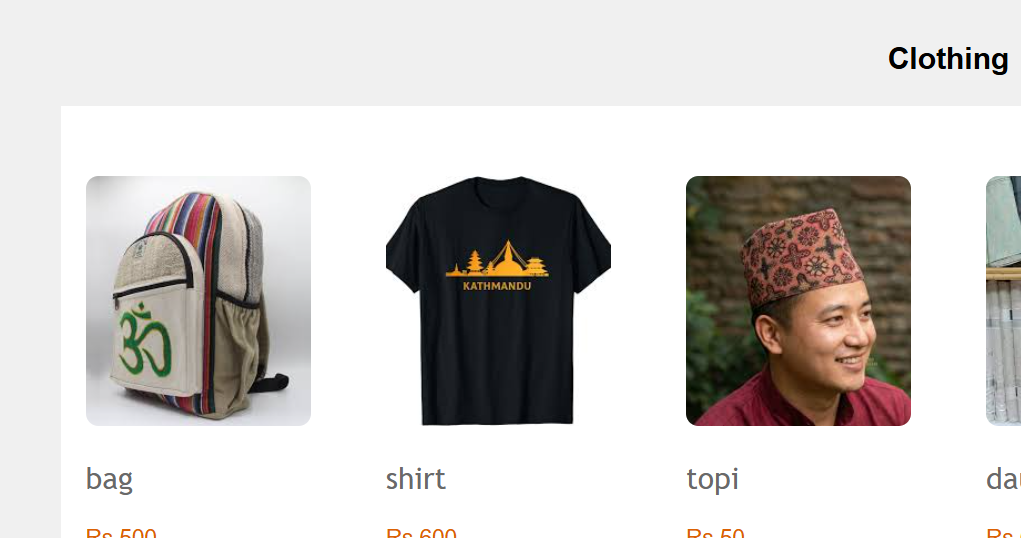
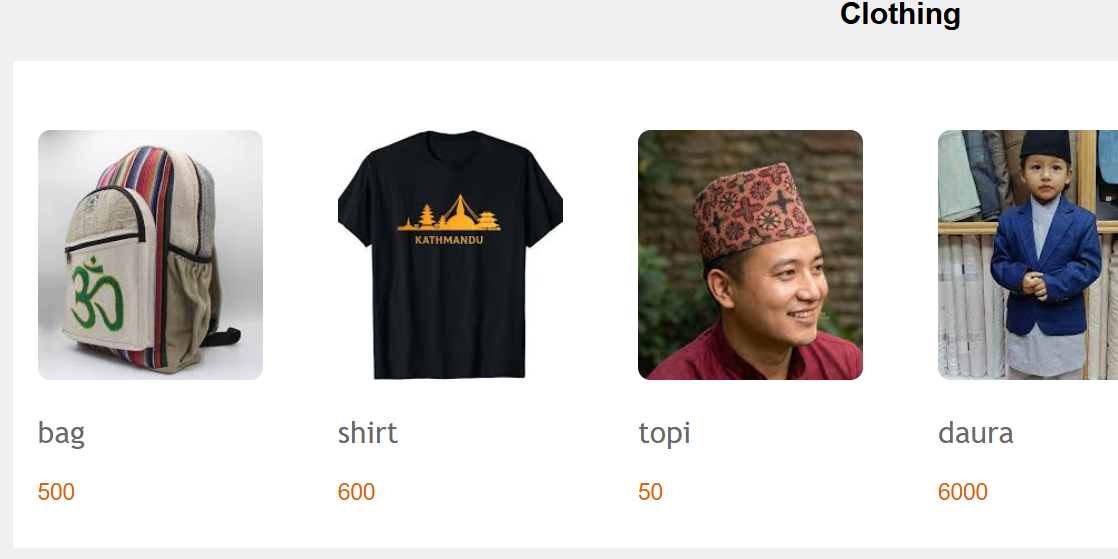
finished product

diff --git a/pages/research.html b/pages/research.html
@@ -85,9 +85,13 @@
         </div>
     <div class="researchContainer" style="flex-direction: column;">
         <center><h3> Description </h3></center>
-        <p> Our products page is designed to provide a seamless shopping experience for users looking for eco-friendly products. 
-            The layout is clean and organized, with a focus on product images and essential information such as name and price.
-            The navigation bar allows users to easily access other sections of the website, enhancing overall usability.
+        <p> for this section, reference was taken from Daraz web app. 
+            The whole products page has taken reference from daraz. 
+            specially the color scheme and the containers. 
+            darker background with lighter shade containers was taken reference. 
+            also the layout was taken reference from daraz. the title and price too. 
+            Improvement was made in the picture radius. 
+            we also added a hover effect for each of the product containers.
         </p>
     </div>
 
@@ -111,9 +115,14 @@
         </div>
     <div class="researchContainer" style="flex-direction: column;">
         <center><h3> Description </h3></center>
-        <p> Our products page is designed to provide a seamless shopping experience for users looking for eco-friendly products. 
-            The layout is clean and organized, with a focus on product images and essential information such as name and price.
-            The navigation bar allows users to easily access other sections of the website, enhancing overall usability.
+        <p> for the footer, we took reference from blogger.com. 
+            the simplicity and readability was taken reference from this website. 
+            all the key information and links are clearly mentioned in the footer. 
+            Contact details, address and social media links are provided. 
+            the main difference we fine from the referred website is the color scheme. 
+            we picked a lighter shade of green which would fit eco mart's theme. 
+            we also added a in built navigation section in the footer itself so its easier to navigate that way. 
+            we also added a navigate up button which on clicked would lead us to the beginning of the page.
         </p>
     </div>
     
@@ -137,9 +146,81 @@
         </div>
     <div class="researchContainer" style="flex-direction: column;">
         <center><h3> Description </h3></center>
-        <p> Our products page is designed to provide a seamless shopping experience for users looking for eco-friendly products. 
-            The layout is clean and organized, with a focus on product images and essential information such as name and price.
-            The navigation bar allows users to easily access other sections of the website, enhancing overall usability.
+        <p>Products description page was also taken reference from Daraz's product description page. 
+            The layout was taken reference from the page as well as the color scheme. 
+            The product image is on the left side, 
+            The product description is in the middle container where one can buy products, 
+            and delivery opitons available and contact details are on the right container. our take on improvement
+             of this page was to add an "other products" section where the customer can see other products if interested. 
+             if clicked, it would lead them to a similar webpage but details of the clicked product.
+        </p>
+    </div>
+
+    <h1 style="margin-left: 200px;">for Blog page containers</h1>
+        <!-- container for content -->
+        <div class = "researchContainer">
+            <table class = "comparisionTable">
+                <tr>
+                    <!-- clickable links for in detailed comparision -->
+                    <td><a href="blog.html"><img src="../assets/blogContainer.png" ></a></td>
+                    <td><a href="https://www.bamboovision.com/bamboo-blog"><img src="../assets/bamboostraw.png"></a></td>
+                </tr>
+                <tr>
+                    <td style="text-align: center; font-weight: bold;">Our Blog Page</td>
+                    <td style="text-align: center; font-weight: bold;">Bamboo Vision Blog Page</td>
+                </tr>
+            </table>
+            
+        </div>
+    <div class="researchContainer" style="flex-direction: column;">
+        <center><h3> Description </h3></center>
+        <p> The reference webpage contains more images, using visuals to help users understand e-commerce quickly with minimal text. In contrast, our webpage contains fewer images and focuses more on providing detailed information through written content, using text as the primary source of understanding.
+
+My webpage uses a card-based layout with clean white containers and rounded corners. Each container is highlighted by a distinct and colorful green left-accent border, which clearly separates sections and improves readability. In contrast, the reference webpage uses simpler box designs and focuses more on layout and imagery, while my page is more detailed and information-focused.
+        </p>
+    </div>
+
+      <h1 style="margin-left: 200px;">for Blog page's blogs</h1>
+        <!-- container for content -->
+        <div class = "researchContainer">
+            <table class = "comparisionTable">
+                <tr>
+                    <!-- clickable links for in detailed comparision -->
+                    <td><a href="blog.html"><img src="../assets/blogdesc.jpeg" ></a></td>
+                    <td><a href="https://nepalipatro.com.np/blog/"><img src="../assets/blogref.jpeg"></a></td>
+                </tr>
+                <tr>
+                    <td style="text-align: center; font-weight: bold;">Our Blog Page</td>
+                    <td style="text-align: center; font-weight: bold;">Nepali Patro Blog Page</td>
+                </tr>
+            </table>
+            
+        </div>
+    <div class="researchContainer" style="flex-direction: column;">
+        <center><h3> Description </h3></center>
+        <p> My webpage describes the e-commerce business, with reference to another webpage. My page has more text and fewer images as compared to the reference site since it has more information and less emphasis on layout. The design is card-based with clean white containers that have rounded corners with a distinct and very colorful green left-accent border. It creates a well-defined visual hierarchy and bold green serif headings, large inner padding, and a combination of paragraph and list of numbers ensures a visual order. My page is more elaborate and is written more, as compared to the reference site that uses images to gain an understanding fast.
+        </p>
+    </div>
+
+     <h1 style="margin-left: 200px;">For Home page Quote</h1>
+        <!-- container for content -->
+        <div class = "researchContainer">
+            <table class = "comparisionTable">
+                <tr>
+                    <!-- clickable links for in detailed comparision -->
+                    <td><a href="../index.html"><img src="../assets/homeGAndhi.png" ></a></td>
+                    <td><a href="https://www.apple.com/store"><img src="../assets/appleRef.png"></a></td>
+                </tr>
+                <tr>
+                    <td style="text-align: center; font-weight: bold;">Our Home Page</td>
+                    <td style="text-align: center; font-weight: bold;">Apple Store</td>
+                </tr>
+            </table>
+            
+        </div>
+    <div class="researchContainer" style="flex-direction: column;">
+        <center><h3> Description </h3></center>
+        <p> The quote from index page was inspired from the apple store website. The difference is we changed it to be a more relatable quote for Eco-mart's theme and we found Mahatma Gandhi's quote the most suitable. we added a picture of him in the home page as well as his popular quote so that it is the first thing people notice.
         </p>
     </div>
     

diff --git a/pages/aboutus.html b/pages/aboutus.html
@@ -4,10 +4,8 @@
     <meta charset="UTF-8">
     <meta name="viewport" content="width=device-width, initial-scale=1.0">
     <link rel="stylesheet" href="../css/styles.css">
-
-
-
-    </style>
+    
+    <script defer src="../script.js"></script>
 </head>
 <body>
     <nav>
@@ -62,6 +60,50 @@
     </div>
 
 </div>
+
+<!-- form for query, along with form validation -->
+  <div class="feedback-section"
+     style="max-width: 600px;
+            margin: 60px auto;
+            padding: 30px;
+            background-color: #ffffff;
+            border-radius: 12px;
+            border: 1px solid #ddd;
+            box-shadow: 0 8px 20px rgba(0,0,0,0.15);">
+
+    <h2 style="text-align: center; color: #2d5016; margin-bottom: 20px;">
+        We Value Your Feedback
+    </h2>
+
+    <form id="feedbackForm" onsubmit="return validateForm()">
+
+        <label for="name">Name:</label><br>
+        <input type="text" id="name" placeholder="Enter your full name"
+               style="width:100%; padding:10px; border-radius:6px; border:1px solid #ccc;"><br><br>
+
+        <label for="email">Email:</label><br>
+        <input type="email" id="email" placeholder="Enter your email address"
+               style="width:100%; padding:10px; border-radius:6px; border:1px solid #ccc;"><br><br>
+
+        <label for="message">Your Feedback:</label><br>
+        <textarea id="message" rows="4" placeholder="Write your feedback here"
+                  style="width:100%; padding:10px; border-radius:6px; border:1px solid #ccc;"></textarea><br><br>
+
+        <div style="text-align: center;">
+            <button type="submit"
+                    style="padding:10px 30px;
+                           background-color:#2d5016;
+                           color:white;
+                           border:none;
+                           border-radius:6px;
+                           cursor:pointer;">
+                Submit Feedback
+            </button>
+        </div>
+
+    </form>
+</div>
+
 <footer>
        <p class="footerHead"> Eco Mart </p>
        <p class="footerText" style="text-align: right; padding-right: 50px;"> <button onclick="navigate()">&#8593; navigate up</button></p>

diff --git a/script.js b/script.js
@@ -1,0 +1,32 @@
+ // simple function to check form
+            function validateForm() {
+
+                // to get input values
+                var name = document.getElementById("name").value;
+                var email = document.getElementById("email").value;
+                var message = document.getElementById("message").value;
+
+                
+                if (name == "") {
+                    alert("You need to enter your full name");
+                    return false;
+                }
+
+                
+                if (email == "") {
+                    alert("You need to enter your email address");
+                    return false;
+                }
+
+                
+                if (message == "") {
+                    alert("Write your message");
+                    return false;
+                }
+
+                
+                alert("Submitted successfully");
+
+                
+                return false;
+            }
